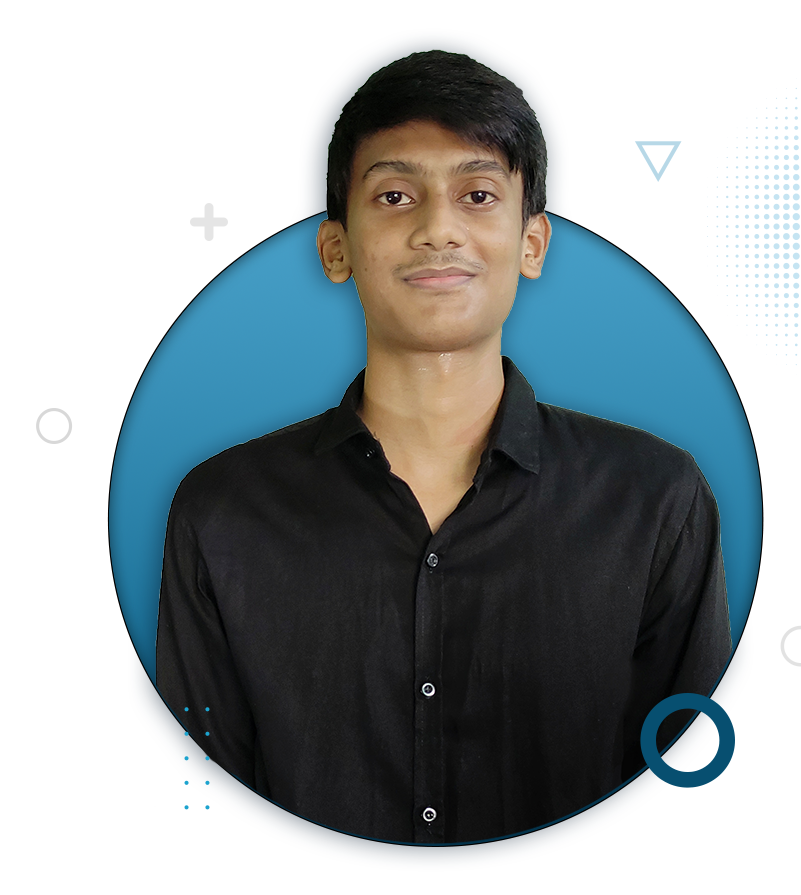
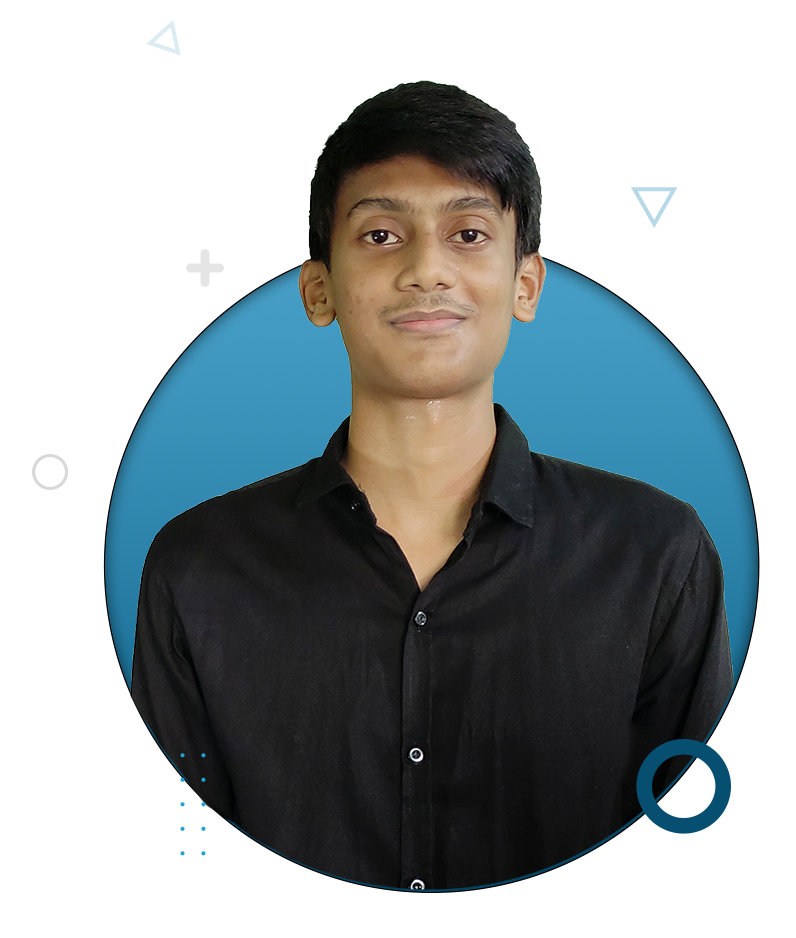
top section added

diff --git a/index.html b/index.html
@@ -1,0 +1,27 @@
+<!DOCTYPE html>
+<html lang="en">
+<head>
+    <meta charset="UTF-8">
+    <meta http-equiv="X-UA-Compatible" content="IE=edge">
+    <meta name="viewport" content="width=device-width, initial-scale=1.0">
+    <title>Fahim Al Mahmud</title>
+    <link rel="preconnect" href="https://fonts.googleapis.com">
+    <link rel="preconnect" href="https://fonts.gstatic.com" crossorigin>
+    <link href="https://fonts.googleapis.com/css2?family=Roboto:wght@400;500;700;900&display=swap" rel="stylesheet">
+    <link rel="stylesheet" href="style.css">
+</head>
+<body>
+   <section class="corner-circle">
+        <div class="half-width">
+            <div>
+                <h1>Stay Focused on <br> <span class="blue-font">Mission 2022</span></h1>
+            </div>
+            <p>Assalamualaikum. This is Fahim Al Mahmud. I am a student of Hajee Mohammad Danesh Science and Technology University. I'm involved in many extra curricular activities. For the past 1 year 4 months, I have been working as a Deputy Director of Research and Documentation in HSTU Model United Nations Association. We successfully originated some events like Clash of Researchoholics, Content Writing Contest, Intra HSTU Mobile Photography Contest, and Position Paper Writing, where I play the role of 'Graphic Designing'.</p>
+            <a class="about-me-button" target="_blank" href="https://www.linkedin.com/in/fahimalmahmud/">About Me</a>
+       </div>
+        <div class="half-width">
+            <img src="image/Fahim-image.png" alt="">
+        </div>
+   </section>
+</body>
+</html>

diff --git a/style.css b/style.css
@@ -1,0 +1,34 @@
+body{
+    font-family: 'Roboto', sans-serif;
+    margin: 0;
+}
+h1{
+    font-size: 50px;
+}
+.blue-font{
+    color: rgb(6, 156, 243);
+}
+section{
+    display: flex;
+}
+.half-width{
+    width: 50%;
+    padding-left: 5%;
+}
+.half-width img{
+    width: 70%;
+}
+.about-me-button{
+    text-decoration: none;
+    background-image: linear-gradient(rgb(42, 177, 240), rgb(42, 135, 223));
+    color: white;
+    font-weight: 400;
+    font-size: 15px;
+    padding: 10px 40px;
+    border-radius: 5px;
+   
+}
+.corner-circle{
+    background-image: url(image/background-element-corner.png);
+    background-repeat: no-repeat;
+}
